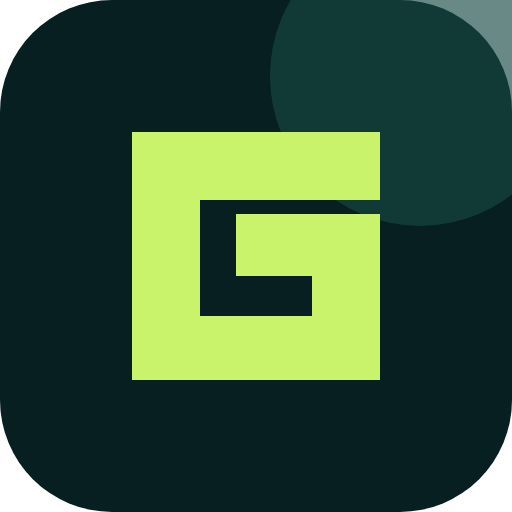
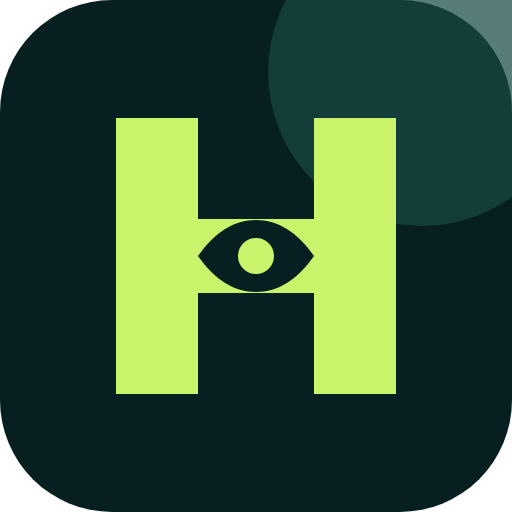
Rebrand app as Heimdall Governance Studio

Changed region(s): [[0.2188, 0.2188, 0.7812, 0.7812], [0.5312, 0.0, 0.5625, 0.0938], [0.5, 0.0938, 0.5312, 0.125]]

diff --git a/index.html b/index.html
@@ -3,33 +3,33 @@
 <head>
   <meta charset="utf-8">
   <meta name="viewport" content="width=device-width, initial-scale=1">
-  <meta name="description" content="Import your Snowflake data catalogue, review masking, classification, tags and quality controls, then generate eight human-approved governance SQL scripts in your browser.">
+  <meta name="description" content="Heimdall Governance Studio turns your Snowflake data catalogue into human-reviewed masking, classification, quality and governance SQL—securely in your browser.">
   <meta name="robots" content="index, follow, max-image-preview:large, max-snippet:-1, max-video-preview:-1">
   <meta name="googlebot" content="index, follow, max-image-preview:large, max-snippet:-1, max-video-preview:-1">
-  <meta name="author" content="Governance Script Studio">
-  <meta name="application-name" content="Governance Script Studio">
+  <meta name="author" content="Heimdall Governance Studio">
+  <meta name="application-name" content="Heimdall Governance Studio">
   <meta name="format-detection" content="telephone=no">
   <meta name="theme-color" content="#071f21">
   <meta property="og:type" content="website">
   <meta property="og:locale" content="en_US">
-  <meta property="og:site_name" content="Governance Script Studio">
-  <meta property="og:title" content="Snowflake Data Governance SQL Generator | Governance Script Studio">
+  <meta property="og:site_name" content="Heimdall Governance Studio">
+  <meta property="og:title" content="Heimdall Governance Studio | Snowflake Data Governance SQL Generator">
   <meta property="og:description" content="Turn an imported Snowflake data catalogue into reviewed masking, classification, quality and governance SQL—entirely in your browser.">
-  <meta property="og:url" content="/">
-  <meta property="og:image" content="/assets/social-card.png">
+  <meta property="og:url" content="https://heimdall.yuvrajraina.com/">
+  <meta property="og:image" content="https://heimdall.yuvrajraina.com/assets/social-card.png">
   <meta property="og:image:type" content="image/png">
   <meta property="og:image:width" content="1200">
   <meta property="og:image:height" content="630">
-  <meta property="og:image:alt" content="Governance Script Studio — catalogue to governance-ready Snowflake SQL">
+  <meta property="og:image:alt" content="Heimdall Governance Studio — catalogue to governance-ready Snowflake SQL">
   <meta name="twitter:card" content="summary_large_image">
-  <meta name="twitter:title" content="Snowflake Data Governance SQL Generator">
+  <meta name="twitter:title" content="Heimdall Governance Studio">
   <meta name="twitter:description" content="Import a catalogue. Review governance decisions. Generate eight Snowflake SQL scripts.">
-  <meta name="twitter:image" content="/assets/social-card.png">
-  <meta name="twitter:image:alt" content="Governance Script Studio — catalogue to governance-ready Snowflake SQL">
-  <link rel="canonical" href="/">
+  <meta name="twitter:image" content="https://heimdall.yuvrajraina.com/assets/social-card.png">
+  <meta name="twitter:image:alt" content="Heimdall Governance Studio — catalogue to governance-ready Snowflake SQL">
+  <link rel="canonical" href="https://heimdall.yuvrajraina.com/">
   <link rel="manifest" href="site.webmanifest">
   <link rel="preconnect" href="https://cdn.sheetjs.com" crossorigin>
-  <title>Snowflake Data Governance SQL Generator | Governance Script Studio</title>
+  <title>Heimdall Governance Studio | Snowflake SQL Generator</title>
   <link rel="icon" href="favicon.svg" type="image/svg+xml">
   <link rel="icon" href="assets/icon-192.png" sizes="192x192" type="image/png">
   <link rel="apple-touch-icon" href="assets/apple-touch-icon.png" sizes="180x180">
@@ -40,7 +40,7 @@
     "@graph": [
       {
         "@type": ["SoftwareApplication", "WebApplication"],
-        "name": "Governance Script Studio",
+        "name": "Heimdall Governance Studio",
         "applicationCategory": "BusinessApplication",
         "operatingSystem": "Web browser",
         "browserRequirements": "Requires JavaScript and a modern web browser",
@@ -64,7 +64,7 @@
         "mainEntity": [
           {
             "@type": "Question",
-            "name": "Does Governance Script Studio upload catalogue data?",
+            "name": "Does Heimdall Governance Studio upload catalogue data?",
             "acceptedAnswer": { "@type": "Answer", "text": "No. Catalogue parsing, governance configuration and SQL generation happen locally in the browser." }
           },
           {
@@ -89,12 +89,12 @@
   </script>
 </head>
 <body>
-  <noscript><div class="noscript-notice">Governance Script Studio needs JavaScript to import catalogues and generate SQL. The product overview remains available below.</div></noscript>
+  <noscript><div class="noscript-notice">Heimdall Governance Studio needs JavaScript to import catalogues and generate SQL. The product overview remains available below.</div></noscript>
   <div class="landing-page" id="landingPage">
     <header class="landing-nav" aria-label="Primary navigation">
       <a class="landing-brand" href="#top">
-        <span class="landing-brand-mark" aria-hidden="true">GS</span>
-        <span><strong>Governance</strong><small>Script Studio</small></span>
+        <img class="landing-brand-mark" src="assets/heimdall-mark.svg" alt="" aria-hidden="true">
+        <span><strong>Heimdall</strong><small>Governance Studio</small></span>
       </a>
       <nav class="landing-nav-links" aria-label="Landing page">
         <a href="#workflow">Workflow</a>
@@ -108,7 +108,7 @@
     <main id="top">
       <section class="landing-hero" aria-labelledby="hero-title">
         <div class="hero-copy">
-          <div class="hero-badge"><span></span> Browser-local Snowflake governance</div>
+          <div class="hero-badge"><span></span> Watchful, browser-local governance</div>
           <h1 id="hero-title">Turn your catalogue into <em>governance-ready</em> SQL.</h1>
           <p>Import a column-level data catalogue, guide every masking, classification, quality and access decision through human review, then generate a complete eight-file Snowflake governance package.</p>
           <div class="hero-actions">
@@ -122,12 +122,12 @@
           </ul>
         </div>
 
-        <div class="hero-product" aria-label="Governance Script Studio product preview">
+        <div class="hero-product" aria-label="Heimdall Governance Studio product preview">
           <div class="product-window">
-            <div class="product-window-bar"><span></span><span></span><span></span><small>governance-script-studio</small></div>
+            <div class="product-window-bar"><span></span><span></span><span></span><small>heimdall-governance-studio</small></div>
             <div class="product-shell-preview">
               <div class="preview-rail">
-                <div class="preview-logo">GS</div>
+                <div class="preview-logo">H</div>
                 <i class="active"></i><i></i><i></i><i></i><i></i>
               </div>
               <div class="preview-canvas">
@@ -204,7 +204,7 @@
       <section class="landing-section faq-section" id="faq" aria-labelledby="faq-title">
         <div class="section-intro"><span class="landing-kicker">Frequently asked</span><h2 id="faq-title">Know the boundary before you begin.</h2></div>
         <div class="faq-list">
-          <details open><summary>Does Governance Script Studio upload catalogue data?<span>+</span></summary><p>No. Catalogue parsing, governance configuration and SQL generation happen locally in your browser.</p></details>
+          <details open><summary>Does Heimdall Governance Studio upload catalogue data?<span>+</span></summary><p>No. Catalogue parsing, governance configuration and SQL generation happen locally in your browser.</p></details>
           <details><summary>Which catalogue file formats are supported?<span>+</span></summary><p>XLSX, XLS, XLSB, CSV and normalized JSON column-level catalogues are supported. Standard Snowflake information-schema headers are recognized automatically.</p></details>
           <details><summary>Does the application execute SQL in Snowflake?<span>+</span></summary><p>No. It generates review-gated SQL files for authorized users to inspect and execute through their approved Snowflake workflow.</p></details>
           <details><summary>Can automation approve governance decisions?<span>+</span></summary><p>No. Suggestions and optional CoCo recommendations remain preliminary. Live-schema review, masking review and final governance approval must be confirmed by a person.</p></details>
@@ -213,12 +213,12 @@
 
       <section class="landing-cta-section">
         <div><span class="landing-kicker">Ready when your catalogue is</span><h2>Make the next governance review structured, repeatable and reviewable.</h2></div>
-        <button class="landing-primary-cta light" type="button" data-launch-studio>Launch Governance Script Studio <span>→</span></button>
+        <button class="landing-primary-cta light" type="button" data-launch-studio>Launch Heimdall <span>→</span></button>
       </section>
     </main>
 
     <footer class="landing-footer">
-      <a class="landing-brand" href="#top"><span class="landing-brand-mark" aria-hidden="true">GS</span><span><strong>Governance</strong><small>Script Studio</small></span></a>
+      <a class="landing-brand" href="#top"><img class="landing-brand-mark" src="assets/heimdall-mark.svg" alt="" aria-hidden="true"><span><strong>Heimdall</strong><small>Governance Studio</small></span></a>
       <p>Browser-local Snowflake governance configuration and SQL generation.</p>
       <nav><a href="#workflow">Workflow</a><a href="#security">Security</a><a href="docs/USER_GUIDE.md">User guide</a></nav>
     </footer>
@@ -227,10 +227,10 @@
   <div class="app-shell hidden" id="studioShell">
     <aside class="sidebar">
       <div class="brand">
-        <div class="brand-mark" aria-hidden="true">GS</div>
+        <img class="brand-mark" src="assets/heimdall-mark.svg" alt="" aria-hidden="true">
         <div>
-          <strong>Governance</strong>
-          <span>Script Studio</span>
+          <strong>Heimdall</strong>
+          <span>Governance Studio</span>
         </div>
       </div>
 
@@ -535,7 +535,7 @@
       </section>
 
       <footer class="workspace-footer">
-        <span>Governance Script Studio · deterministic static generator</span>
+        <span>Heimdall Governance Studio · deterministic static generator</span>
         <span id="saveStatus">No table selected</span>
       </footer>
     </main>

diff --git a/styles.css b/styles.css
@@ -39,7 +39,7 @@ code, pre { font-family: "SFMono-Regular", Consolas, "Liberation Mono", monospac
   display: flex; flex-direction: column; z-index: 10;
 }
 .brand { display: flex; align-items: center; gap: 12px; margin-bottom: 30px; }
-.brand-mark { width: 44px; height: 44px; border-radius: 13px; display: grid; place-items: center; color: var(--navy); background: var(--mint); font-weight: 900; letter-spacing: -.04em; }
+.brand-mark { width: 44px; height: 44px; display: block; flex: 0 0 auto; border-radius: 13px; object-fit: cover; box-shadow: 0 8px 24px rgba(0,0,0,.16); }
 .brand strong, .brand span { display: block; }
 .brand strong { font-size: 16px; }
 .brand span { color: #9db8b7; font-size: 13px; margin-top: 2px; }
@@ -255,7 +255,7 @@ td code { color: #1d4d52; font-size: 11px; font-weight: 700; }
 .landing-page a { color: inherit; text-decoration: none; }
 .landing-nav { position: relative; z-index: 20; width: min(1180px, calc(100% - 48px)); height: 88px; margin: 0 auto; display: flex; align-items: center; justify-content: space-between; gap: 28px; border-bottom: 1px solid rgba(255,255,255,.1); }
 .landing-brand { display: inline-flex; align-items: center; gap: 11px; flex: 0 0 auto; }
-.landing-brand-mark { width: 39px; height: 39px; display: grid; place-items: center; color: #092325; background: var(--landing-accent); border-radius: 10px; font-size: 13px; font-weight: 950; letter-spacing: -.04em; box-shadow: 0 8px 26px rgba(200,243,106,.12); }
+.landing-brand-mark { width: 39px; height: 39px; display: block; flex: 0 0 auto; border-radius: 10px; object-fit: cover; box-shadow: 0 8px 26px rgba(200,243,106,.12); }
 .landing-brand strong, .landing-brand small { display: block; }
 .landing-brand strong { font-size: 14px; line-height: 1; }
 .landing-brand small { margin-top: 4px; color: var(--landing-muted); font-size: 10px; letter-spacing: .08em; text-transform: uppercase; }
@@ -404,7 +404,7 @@ td code { color: #1d4d52; font-size: 11px; font-weight: 700; }
 #studioShell { background: #eef2ee; }
 #studioShell.app-shell { grid-template-columns: 260px minmax(0, 1fr); }
 #studioShell .sidebar { padding: 24px 19px; background: radial-gradient(circle at 15% 0%, rgba(200,243,106,.13), transparent 25%), linear-gradient(160deg, #0b2527, #06191b); }
-#studioShell .brand-mark { color: #0b2527; background: #c8f36a; }
+#studioShell .brand-mark { background: #071f21; }
 #studioShell .catalog-summary { border-color: rgba(255,255,255,.09); border-radius: 10px; background: rgba(255,255,255,.04); }
 #studioShell .step-link { border-radius: 8px; }
 #studioShell .step-link.active { color: #f6fff9; background: rgba(200,243,106,.1); box-shadow: inset 3px 0 #c8f36a; }

diff --git a/app.js b/app.js
@@ -2,7 +2,7 @@
 
 const $ = (selector, root = document) => root.querySelector(selector);
 const $$ = (selector, root = document) => [...root.querySelectorAll(selector)];
-const STORAGE_PREFIX = "governance-script-studio:v1:";
+const STORAGE_PREFIX = "heimdall-governance-studio:v1:";
 const MASK_TIERS = ["", "FULL", "PARTIAL_EMAIL", "PARTIAL_PHONE", "PARTIAL_ZIP", "CONDITIONAL"];
 const RESERVED = new Set(["COMMENT", "CURRENT_DATE", "CURRENT_TIME", "CURRENT_TIMESTAMP"]);
 const COCO_REVIEW_VERSION = 2;
@@ -28,7 +28,7 @@ let state = null;
 let generatedScripts = {};
 let maskFilter = "all";
 let toastTimer;
-const LANDING_TITLE = "Snowflake Data Governance SQL Generator | Governance Script Studio";
+const LANDING_TITLE = "Heimdall Governance Studio | Snowflake SQL Generator";
 
 function setApplicationView(view, updateHistory = false) {
   const studioOpen = view === "studio";
@@ -39,7 +39,7 @@ function setApplicationView(view, updateHistory = false) {
   landing.setAttribute("aria-hidden", String(studioOpen));
   studio.setAttribute("aria-hidden", String(!studioOpen));
   document.body.classList.toggle("studio-open", studioOpen);
-  document.title = studioOpen ? "Governance Workspace | Governance Script Studio" : LANDING_TITLE;
+  document.title = studioOpen ? "Governance Workspace | Heimdall Governance Studio" : LANDING_TITLE;
   if (updateHistory) {
     const target = studioOpen ? "#studio" : `${window.location.pathname}${window.location.search}`;
     window.history.pushState({ view }, "", target);

diff --git a/404.html b/404.html
@@ -5,15 +5,15 @@
   <meta name="viewport" content="width=device-width, initial-scale=1">
   <meta name="robots" content="noindex, follow">
   <meta name="theme-color" content="#071f21">
-  <title>Page not found | Governance Script Studio</title>
+  <title>Page not found | Heimdall Governance Studio</title>
   <link rel="icon" href="/favicon.svg" type="image/svg+xml">
   <link rel="stylesheet" href="/styles.css">
 </head>
 <body class="error-page">
   <main class="error-card">
-    <a class="landing-brand" href="/" aria-label="Governance Script Studio home">
-      <span class="landing-brand-mark" aria-hidden="true">GS</span>
-      <span><strong>Governance</strong><small>Script Studio</small></span>
+    <a class="landing-brand" href="/" aria-label="Heimdall Governance Studio home">
+      <img class="landing-brand-mark" src="/assets/heimdall-mark.svg" alt="" aria-hidden="true">
+      <span><strong>Heimdall</strong><small>Governance Studio</small></span>
     </a>
     <p class="error-code">404</p>
     <h1>This page is outside the catalogue.</h1>

diff --git a/docs/DEPLOYMENT.md b/docs/DEPLOYMENT.md
@@ -14,7 +14,7 @@ The repository is a static Netlify site with:
 Repository:
 
 ```text
-https://github.com/yuvrajrainamastek/governance-script-studio
+https://github.com/yuvrajraina/Snowflake-Data-Governance-CoCo
 ```
 
 ## Connect GitHub to Netlify
@@ -22,7 +22,7 @@ https://github.com/yuvrajrainamastek/governance-script-studio
 1. Sign in to Netlify.
 2. Choose **Add new project** → **Import an existing project**.
 3. Select GitHub and authorize access to the repository if required.
-4. Select `yuvrajrainamastek/governance-script-studio`.
+4. Select `yuvrajraina/Snowflake-Data-Governance-CoCo`.
 5. Use branch `main`.
 6. Leave the detected build command unchanged. Netlify reads it from `netlify.toml`.
 7. Confirm the publish directory is `dist`.
@@ -35,19 +35,19 @@ Every push to `main` will create a production deployment unless the Netlify proj
 - Enable deploy previews for pull requests.
 - Protect production changes through pull-request review.
 - Do not add secrets; the site has no secret-bearing runtime configuration.
-- Set the preferred custom domain as Netlify's primary domain before requesting indexing. Netlify's read-only `URL` build variable then becomes the canonical origin automatically.
+- Add `heimdall.yuvrajraina.com` as the primary custom domain before requesting indexing. The committed `SITE_URL` keeps canonical, sitemap and social URLs pinned to that public origin.
 - Keep form handling, functions and identity disabled unless a reviewed requirement introduces them.
 - Keep deploy previews enabled. The build applies HTML and HTTP `noindex` directives to them automatically.
 
 ## Local preview
 
 ```powershell
-git clone https://github.com/yuvrajrainamastek/governance-script-studio.git
-cd governance-script-studio
+git clone https://github.com/yuvrajraina/Snowflake-Data-Governance-CoCo.git
+cd Snowflake-Data-Governance-CoCo
 npm test
 $env:CONTEXT = 'production'
 $env:SEO_INDEXABLE = 'true'
-$env:SITE_URL = 'https://example.com'
+$env:SITE_URL = 'https://heimdall.yuvrajraina.com'
 npm run build
 npm run test:deploy
 python -m http.server 8080 --directory dist
@@ -75,7 +75,7 @@ npm run test:deploy
 
 Upload the `dist` directory. `index.html`, `_headers`, `_redirects`, `robots.txt` and `sitemap.xml` must all be at its root.
 
-For Git-connected production deploys, Netlify supplies the final main-site `URL`; no manual sitemap or canonical substitution is required.
+For Git-connected production deploys, `netlify.toml` supplies the final custom-domain origin; no manual sitemap or canonical substitution is required.
 
 ## Search launch checklist
 
@@ -118,7 +118,7 @@ Confirm the build completed and Netlify is publishing `dist`, not the repository
 
 ### Production build fails with a missing URL
 
-Netlify supplies `URL` automatically. For a local production build, set `SITE_URL` to the complete public origin before running `npm run build`.
+The committed Netlify configuration supplies `SITE_URL`. For a local production build against another origin, set `SITE_URL` to the complete public origin before running `npm run build`.
 
 ### Preview appears in search metadata
 

diff --git a/README.md b/README.md
@@ -1,6 +1,6 @@
-# Governance Script Studio
+# Heimdall Governance Studio
 
-Governance Script Studio is a static web application that imports a column-level data catalogue and converts a human-reviewed governance configuration into eight Snowflake SQL files.
+Heimdall Governance Studio is a static web application that imports a column-level data catalogue and converts a human-reviewed governance configuration into eight Snowflake SQL files.
 
 The user supplies the catalogue as XLSX, XLS, XLSB, CSV, or normalized JSON. Parsing and governance work happen in the browser; the application does not upload catalogue data, connect to Snowflake, call an AI service, or execute SQL. An optional handoff generates a self-contained task that Snowflake CoCo executes autonomously before returning structured recommendations for human review.
 

diff --git a/docs/USER_GUIDE.md b/docs/USER_GUIDE.md
@@ -2,7 +2,7 @@
 
 ## Purpose
 
-Governance Script Studio imports a column-level catalogue and guides a reviewer through the decisions required to produce eight Snowflake governance SQL files for one table. It automates formatting, validation and repeatable boilerplate; it does not make governance decisions or execute SQL.
+Heimdall Governance Studio imports a column-level catalogue and guides a reviewer through the decisions required to produce eight Snowflake governance SQL files for one table. It automates formatting, validation and repeatable boilerplate; it does not make governance decisions or execute SQL.
 
 ## Roles in the workflow
 

diff --git a/CONTRIBUTING.md b/CONTRIBUTING.md
@@ -2,7 +2,7 @@
 
 ## Development model
 
-Governance Script Studio is intentionally buildless and dependency-free. Changes should preserve the ability to deploy the repository directly to Netlify without `npm install`, a build command or a backend service.
+Heimdall Governance Studio is a dependency-free static application with a small Node.js build step for deploy-time SEO and security output. Changes should preserve browser-local catalogue processing, deterministic SQL generation and Netlify deployment without a backend service.
 
 ## Before changing code
 

diff --git a/docs/ARCHITECTURE_AND_SECURITY.md b/docs/ARCHITECTURE_AND_SECURITY.md
@@ -2,7 +2,7 @@
 
 ## Architecture
 
-Governance Script Studio is a static browser application with a dependency-free Node build step for deploy-time SEO and security output.
+Heimdall Governance Studio is a static browser application with a dependency-free Node build step for deploy-time SEO and security output.
 
 ```mermaid
 flowchart LR

diff --git a/docs/TESTING.md b/docs/TESTING.md
@@ -88,7 +88,7 @@ Run this checklist after changing application logic, validation, templates or th
 npm test
 $env:CONTEXT = 'production'
 $env:SEO_INDEXABLE = 'true'
-$env:SITE_URL = 'https://example.com'
+$env:SITE_URL = 'https://heimdall.yuvrajraina.com'
 npm run build
 npm run test:deploy
 ```
